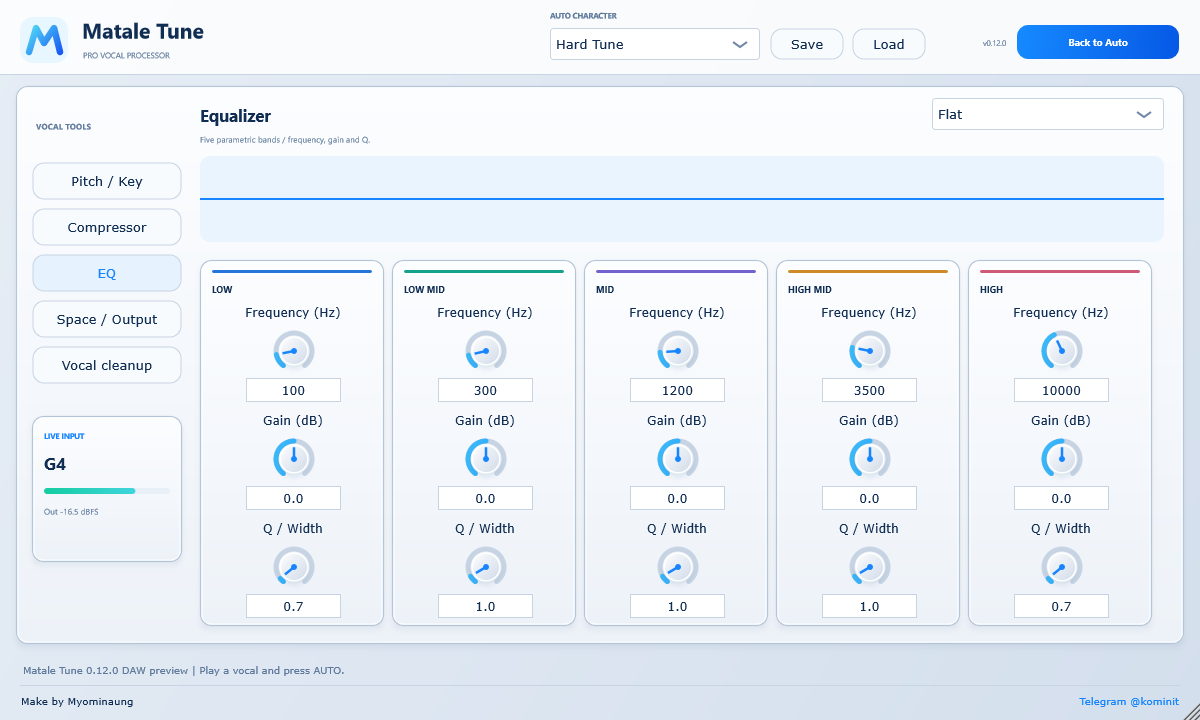
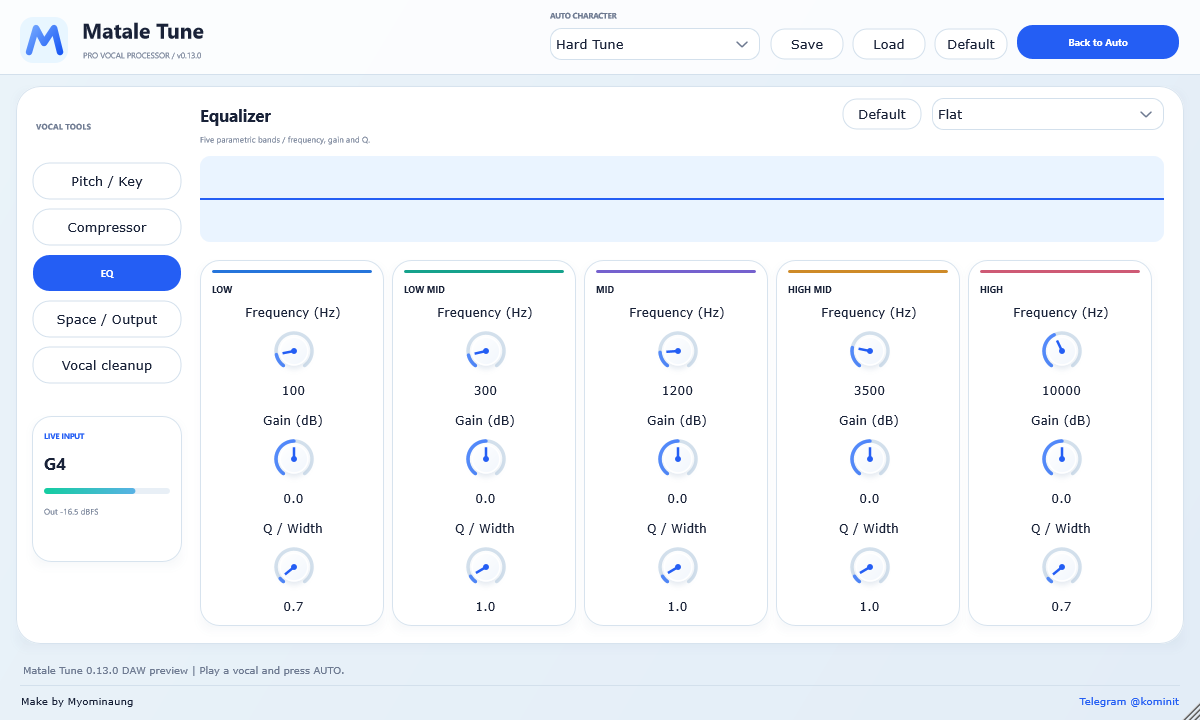
Record verified Default and reference UI Windows build

diff --git a/README.md b/README.md
@@ -172,7 +172,7 @@ A stereo-linked output safety limiter uses 128 samples of lookahead and a −0.4
 
 ## Native DAW preview
 
-[Latest Windows VST3: 0.12.0 with per-module presets](https://github.com/shwesiads-ctrl/b-tune/raw/7e3b2dd70415fa9884875bacb80c01e77cf5d2ee/MataleTune-Windows-x64-VST3.zip)
+[Latest Windows VST3: 0.13.0 with Default and refreshed UI](https://github.com/shwesiads-ctrl/b-tune/raw/fa28db448e7e0997fe3883dab16ff6b486a79f49/MataleTune-Windows-x64-VST3.zip)
 
 VST3/AU share a compact four-panel JUCE editor: Vocal Analysis, Output, Auto
 Mode and Vocal Smooth. Native Auto measures dry stereo audio, estimates key
@@ -338,5 +338,21 @@ blue background, white rounded cards/pills, solid-blue active navigation and
 white circular AUTO control with a blue analysis arc. The vocal workflow,
 branding, module presets and Save/Load remain available.
 
-See [Default scope and usage](project/docs/NATIVE-PRESETS.md). Windows build
-validation is pending for this revision.
+See [Default scope and usage](project/docs/NATIVE-PRESETS.md). Windows native
+tests and pluginval strictness 5 passed.
+
+### Verified Windows 0.13.0 download
+
+[Download Windows x64 VST3 0.13.0](https://github.com/shwesiads-ctrl/b-tune/raw/fa28db448e7e0997fe3883dab16ff6b486a79f49/MataleTune-Windows-x64-VST3.zip)
+(3.73 MB) · [Windows build/test evidence](https://github.com/shwesiads-ctrl/b-tune/actions/runs/38710110456).
+
+Source `92d3fa3e15780dd12a27fcdbd97c6c1fd0783901`: MSVC x64 build, 10/10
+native tests and pluginval strictness 5 passed. Global/page Default callbacks,
+all default values, page isolation, file presets and native audio/UI checks
+are included. Archive CRC, source/version, SHA-256 and PE x64 module were
+independently checked. SHA-256:
[1 lines of base64/hex data omitted]
+Close the DAW and replace the whole `Matale Tune.vst3` folder in
+`C:\Program Files\Common Files\VST3\`, then reopen/rescan.
+
+![Actual Windows reference-inspired native UI](Native-Compact-Preview.png)

diff --git a/project/docs/NATIVE-VALIDATION.md b/project/docs/NATIVE-VALIDATION.md
@@ -165,4 +165,13 @@ actual GUI button callbacks for global Default and all five page Defaults.
 Existing module presets, full file round-trip, compatibility, style, Auto,
 realtime and layout checks remain enabled. Linux native build and all 10 CTest
 suites passed. Auto and EQ screenshots were inspected against the reference
-direction. Windows validation is pending for this revision.
+direction. Windows run https://github.com/shwesiads-ctrl/b-tune/actions/runs/38710110456
+passed for source `92d3fa3e15780dd12a27fcdbd97c6c1fd0783901`: MSVC x64 build,
+10/10 native suites and pluginval 1.0.4 strictness 5. The actual Windows Auto
+screenshot was inspected for the reference-inspired theme and Default button.
+Published archive CRC, source/version, PE x64 module and SHA-256 were checked.
+Archive size: 3,730,964 bytes. SHA-256:
[1 lines of base64/hex data omitted]
+Binary commit: `fa28db448e7e0997fe3883dab16ff6b486a79f49`.
+Pluginval GUI tests and the separate Steinberg validator remain skipped as
+previously documented. Listening and DAW-specific recall remain host checks.
